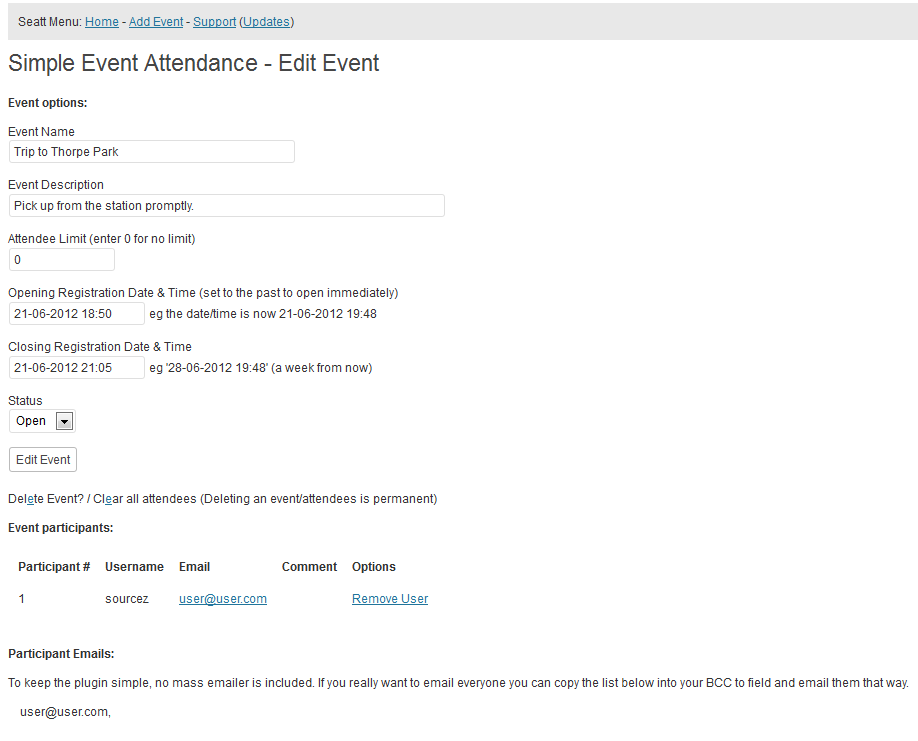
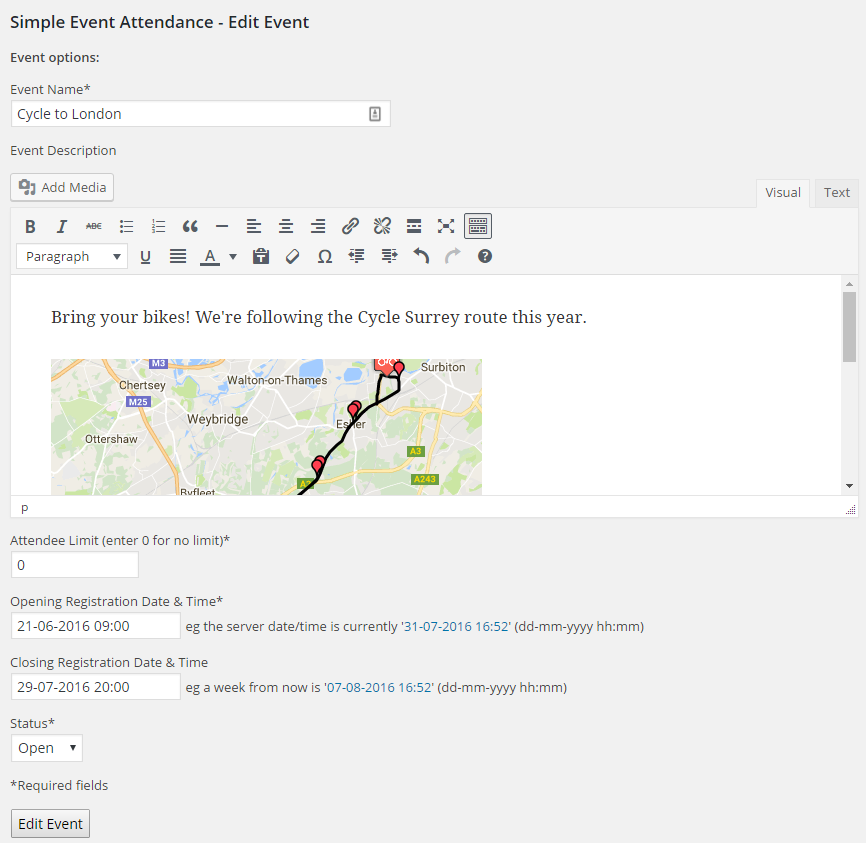
Updated to version 1.4.0
Numerous function changes and bug fixes. Also updated screenshots.

diff --git a/simple-event-attendance/seatt_events_include.php b/simple-event-attendance/seatt_events_include.php
@@ -2,8 +2,12 @@
 function seatt_form($event_id) {
 	global $wpdb;
 	global $current_user;
-	get_currentuserinfo();
+	//get_currentuserinfo(); deprecated since wp 4.5
+    $current_user = wp_get_current_user();
 	$seatt_error = "";
+    
+    // Get settings
+    $seatt_set_public_comments = 0;
 	
 	// Clean down event ID by checking if numeric, then casting to integer
 	if (isset($event_id)) {
@@ -31,7 +35,7 @@ function seatt_form($event_id) {
 	if ($event_id != '') {
 		
 		// Get current state of event. 1 = open, 0 = closed, NULL = expired or doesn't exist
-		$seatt_event_state = $wpdb->get_var($wpdb->prepare("SELECT event_status FROM ".$wpdb->prefix."seatt_events WHERE id = %d AND event_expire >= %d", $event_id, time()));
+		$seatt_event_state = $wpdb->get_var($wpdb->prepare("SELECT event_status FROM ".$wpdb->prefix."seatt_events WHERE id = %d AND event_expire >= %d", $event_id, current_time('timestamp')));
 		
 		// If submitted, remove registration
 		if ((isset($_POST['seatt_unregister'])) && ($form_event_id == $event_id)) {
@@ -54,6 +58,11 @@ function seatt_form($event_id) {
 				// Get current number of free slots
 				$seatt_this_limit = $wpdb->get_var($wpdb->prepare("SELECT event_limit FROM ".$wpdb->prefix."seatt_events WHERE id = %d", $event_id));
 				$seatt_this_registered = $wpdb->get_var($wpdb->prepare("SELECT count(user_id) FROM ".$wpdb->prefix."seatt_attendees WHERE event_id = %d", $event_id));
+                
+                // Ensure if 0, user can signup
+                if ($seatt_this_limit == 0) {
+                    $seatt_this_limit = 100000;
+                }
 				
 				// If space, add registration
 				if ($seatt_this_limit > $seatt_this_registered) {
@@ -93,10 +102,10 @@ function seatt_form($event_id) {
 					$event->event_limit = 100000; 
 				}
 				
-				$seatt_output = '<div style="background:#E8E8E8;padding:10px;"><h2>' . esc_html($event->event_name) . '</h2>
-				<p><strong>Description:</strong> ' . esc_html($event->event_desc) . '<br />
-				Registration opens at ' . date("d-m-Y H:i", $event->event_start) . '<br />
-				Registration closes at ' . date("d-m-Y H:i", $event->event_expire) . '</p>';
+				$seatt_output = '<div style="background:#E8E8E8;padding:10px;margin-bottom:5px;"><h2 style="margin-top:10px;">' . esc_html($event->event_name) . '</h2>
+				<p><strong>Description:</strong> ' . wpautop($event->event_desc) . '</p>
+				<p>Registration opens at ' . date("d-m-Y H:i", $event->event_start) . '</p>
+				<p>Registration closes at ' . date("d-m-Y H:i", $event->event_expire) . '</p>';
 				
 				if ($event->event_limit != 100000) {
 					$seatt_output .= '<p>
@@ -106,16 +115,19 @@ function seatt_form($event_id) {
 			$seatt_output .= '<p><strong>Registered Users:</strong>
 			<ol style="margin-left:1em;">';
 			
-			$users = $wpdb->get_results($wpdb->prepare("SELECT id, user_id FROM ".$wpdb->prefix."seatt_attendees WHERE event_id = %d ORDER BY id ASC", $event_id));
+			$users = $wpdb->get_results($wpdb->prepare("SELECT id, user_id, user_comment FROM ".$wpdb->prefix."seatt_attendees WHERE event_id = %d ORDER BY id ASC", $event_id));
 			
-			$num = 1;
 			foreach ($users as $user) {
 				$user_info = get_userdata($user->user_id);
-				$seatt_output .= '<li>' . esc_html($user_info->user_login) . '</li>';
-				$num++;
+				$seatt_output .= '<li>' . esc_html($user_info->user_login);
+				// If public comments setting is enabled, display comments in form
+                if ($seatt_set_public_comments) {
+                    $seatt_output .= ' (' . esc_html($user->user_comment) . ')</li>';
+                }
+                $seatt_output .= '</li>';
 			}
 			
-			if ($num == 1) {
+			if (count($users) == 0) {
 				$seatt_output .= 'None found.';
 			}
 			

diff --git a/simple-event-attendance/seatt_events_add.php b/simple-event-attendance/seatt_events_add.php
@@ -5,7 +5,7 @@
           if(isset($_POST['seatt_name'])) {
 			$_POST = stripslashes_deep($_POST);  
 			$event_name = sanitize_text_field($_POST['seatt_name']);
-			$event_desc = sanitize_text_field($_POST['seatt_desc']);
+			$event_desc = wp_kses_post($_POST['seatt_desc']);
 			$event_limit = intval($_POST['seatt_limit']);
 			$event_start = strtotime($_POST['seatt_start']);
 			$event_expire = strtotime($_POST['seatt_expire']);
@@ -24,6 +24,7 @@
 				<?php
 				
 			  } else {
+
 				// If required fields missing
 			  	?>
                 <div class="error">
@@ -40,9 +41,14 @@
 		    <input name="seatt_name" type="text" id="seatt_name" size="50" maxlength="150">
             </p>
 		    <p>Event Description<br>
-		      <label for="seatt_desc"></label>
-		      <input name="seatt_desc" type="text" id="seatt_desc" size="80" maxlength="150">
-		    </p>
+            <?php 
+            // Open in WP editor
+            $content = '';
+            $editor_id = 'seatt_desc';
+
+            wp_editor( $content, $editor_id, array( 'media_buttons' => true, 'wpautop' => true, 'textarea_rows' => 5 ) );
+            ?>
+            </p>
 		    <p>Attendee Limit (enter 0 for no limit)*<br>
 		      <label for="seatt_limit"></label>
 		      <input name="seatt_limit" type="text" id="seatt_limit" size="14" maxlength="8" value="0">
@@ -57,7 +63,6 @@ eg the server date/time is currently '<a onclick="document.getElementById('seatt
             <p>
 		      <input type="submit" name="Submit" value="<?php _e('Add Event', 'seatt_trdom' ) ?>" />
 		    </p>
-  </form>
-		  <p>&nbsp;</p>
-          
+  		  </form>
+		  <p>&nbsp;</p>       
           </div>

diff --git a/simple-event-attendance/simple-events-attendance.php b/simple-event-attendance/simple-events-attendance.php
@@ -1,7 +1,7 @@
 <?php
 /*
 Plugin Name: Simple Event Attendance (SEATT)
-Version: 1.3.1
+Version: 1.4.0
 Plugin URI: http://www.3cc.org/scripts/wp-seatt-simple-event-attendance/
 Author: Dave Channon
 Author URI: http://www.3cc.org
@@ -102,12 +102,21 @@ function seatt_admin_add() {
 function seatt_admin_edit() {   
 	include('seatt_events_edit.php');
 }
+// To include in a version soon
+/*
+function seatt_admin_settings() {   
+	include('seatt_events_settings.php');
+}
+*/
 
 function seatt_admin_actions() {
 	add_menu_page("SEATT Events", "SEATT Events", "level_3", "seatt_events", "seatt_admin" );
-	add_submenu_page( "seatt_events", "SEATT Events View", "View Events", "level_3", "seatt_events", "seatt_admin" );
+	add_submenu_page( "seatt_events", "SEATT Events Summary", "View Events", "level_3", "seatt_events", "seatt_admin" );
 	add_submenu_page( "seatt_events", "SEATT Events Add", "Add Event", "level_3", "seatt_events_add", "seatt_admin_add" );
 	add_submenu_page( "seatt_events", "SEATT Events Edit", "Edit Event", "level_3", "seatt_events_edit", "seatt_admin_edit" );
+    /*
+	add_submenu_page( "seatt_events", "SEATT Events Settings", "Settings", "level_3", "seatt_events_settings", "seatt_admin_settings" );
+	*/
 }
 
 add_action('admin_menu', 'seatt_admin_actions');
@@ -120,5 +129,6 @@ function seatt_func( $atts ) {
 	return seatt_form("{$event_id}");
 }
 add_shortcode( 'seatt-form', 'seatt_func' );
+
 
 ?>

diff --git a/simple-event-attendance/seatt_events_edit.php b/simple-event-attendance/seatt_events_edit.php
@@ -107,7 +107,7 @@ elseif ((isset($_POST['seatt_name'])) && (!isset($_POST['seatt_add_user']))) {
 		
 	$_POST = stripslashes_deep($_POST);  
 	$event_name = sanitize_text_field($_POST['seatt_name']);
-	$event_desc = sanitize_text_field($_POST['seatt_desc']);
+	$event_desc = wp_kses_post($_POST['seatt_desc']);
 	$event_limit = intval($_POST['seatt_limit']);
 	$event_status = intval($_POST['seatt_status']);
 	$event_start = strtotime($_POST['seatt_start']);
@@ -162,10 +162,16 @@ if ($event->id != "") {
 		<label for="seatt_name"></label>
 		<input name="seatt_name" type="text" id="seatt_name" value="<?php echo esc_html($event->event_name); ?>" size="50" maxlength="150">
 	</p>
-	<p>Event Description<br>
-		<label for="seatt_desc"></label>
-		<input name="seatt_desc" type="text" id="seatt_desc" value="<?php echo esc_html($event->event_desc); ?>" size="80" maxlength="150" />
-	</p>
+	
+    <p>Event Description<br>
+    <?php 
+    // Load in WP editor
+    $content = wp_kses_post($event->event_desc);
+    $editor_id = 'seatt_desc';
+
+    wp_editor( $content, $editor_id, array( 'media_buttons' => true, 'wpautop' => true, 'textarea_rows' => 5 ) );
+    ?>
+    </p>
 	<p>Attendee Limit (enter 0 for no limit)*<br>
 		<label for="seatt_limit"></label>
 		<input name="seatt_limit" type="text" id="seatt_limit" value="<?php echo esc_html($event->event_limit); ?>" size="14" maxlength="8">

diff --git a/simple-event-attendance/seatt_events_admin.php b/simple-event-attendance/seatt_events_admin.php
@@ -1,7 +1,7 @@
 <?php global $wpdb; ?>
 <div class="wrap">  
 <?php include("seatt_header.php"); ?>
-          <?php    echo "<h2>" . __( 'Simple Event Attendance Options', 'seatt_trdom' ) . "</h2>"; ?>  
+          <?php    echo "<h2>" . __( 'Simple Event Attendance Summary', 'seatt_trdom' ) . "</h2>"; ?>  
 <?php
 
 // Clean down event ID by checking if numeric, then casting to integer
@@ -39,7 +39,7 @@ if (($event_id != '') && (isset($_GET['remove_event']))) {
 
 // Check for duplicate event
 if (($event_id != '') && (isset($_GET['duplicate_event']))) {
-	
+
 	// Get existing event details
 	$event = $wpdb->get_row($wpdb->prepare("SELECT event_name, event_desc, event_limit, event_start, event_expire, event_reserves FROM ".$wpdb->prefix."seatt_events WHERE id = %d", $event_id));
 
@@ -114,10 +114,4 @@ if	($seatt_hidden == 'Y') {
 }
     ?>
 </table>
-<!--
-To come.
-    <h3>Options:</h3>
-  <p>Attendees visible to all?</p>
-        <input type="submit" name="Submit" value="<?php _e('Update Options', 'seatt_trdom' ) ?>" />  
--->
 </div>  

diff --git a/simple-event-attendance/seatt_header.php b/simple-event-attendance/seatt_header.php
@@ -1,1 +1,9 @@
-<div style="background:#E8E8E8; width:100%;padding:10px;">Seatt Menu: <a href="admin.php?page=seatt_events">Home</a> - <a href="admin.php?page=seatt_events_add">Add Event</a> - <a href="http://www.3cc.org/scripts/wp-seatt-simple-event-attendance/">Support</a></div>
+<div style="background:#E8E8E8; width:95%;padding:10px;">
+    <div style="float:left;">
+        SEATT: <a href="admin.php?page=seatt_events">Summary</a> - <a href="admin.php?page=seatt_events_add">Add Event</a><!-- - <a href="admin.php?page=seatt_events_settings">Settings</a>-->
+    </div>
+    <div style="float:right">
+        Support: <a href="https://wordpress.org/support/plugin/simple-event-attendance">WP Forum</a> - <a href="http://www.3cc.org/">Developer Site</a>
+    </div>
+    <div style="clear:both;"></div>
+</div>
